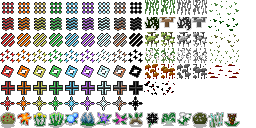
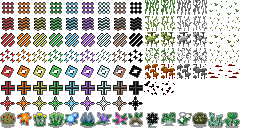
Porting v0.8.1: improved sprites for plants made via wand of regrowth

Changed region(s): [[0.0, 0.875, 0.9375, 1.0], [0.5625, 0.125, 0.875, 0.25], [0.8438, 0.125, 0.9375, 0.25]]

diff --git a/core/src/main/java/com/shatteredpixel/yasd/general/sprites/LotusSprite.java b/core/src/main/java/com/shatteredpixel/yasd/general/sprites/LotusSprite.java
@@ -39,7 +39,6 @@ import com.watabou.noosa.particles.Emitter;
 
 import java.util.ArrayList;
 
-//TODO implement on WIP sprite
 public class LotusSprite extends MobSprite {
 
 	private ArrayList<Emitter> grassVfx;
@@ -47,11 +46,11 @@ public class LotusSprite extends MobSprite {
 	public LotusSprite(){
 		super();
 
-		perspectiveRaise = 0.2f;
+		perspectiveRaise = 0f;
 
 		texture( Assets.Sprites.LOTUS );
 
-		TextureFilm frames = new TextureFilm( texture, 17, 14 );
+		TextureFilm frames = new TextureFilm( texture, 19, 16 );
 
 		idle = new MovieClip.Animation( 1, true );
 		idle.frames( frames, 0 );
@@ -66,6 +65,12 @@ public class LotusSprite extends MobSprite {
 		die.frames( frames, 0 );
 
 		play( idle );
+	}
+
+	@Override
+	public void place(int cell) {
+		if (parent != null) parent.sendToBack(this);
+		super.place(cell);
 	}
 
 	@Override

diff --git a/core/src/main/java/com/shatteredpixel/yasd/general/items/quest/Pickaxe.java b/core/src/main/java/com/shatteredpixel/yasd/general/items/quest/Pickaxe.java
@@ -60,6 +60,8 @@ public class Pickaxe extends Weapon {
 	
 	{
 		image = ItemSpriteSheet.PICKAXE;
+
+		levelKnown = true;
 		
 		unique = true;
 		bones = false;
